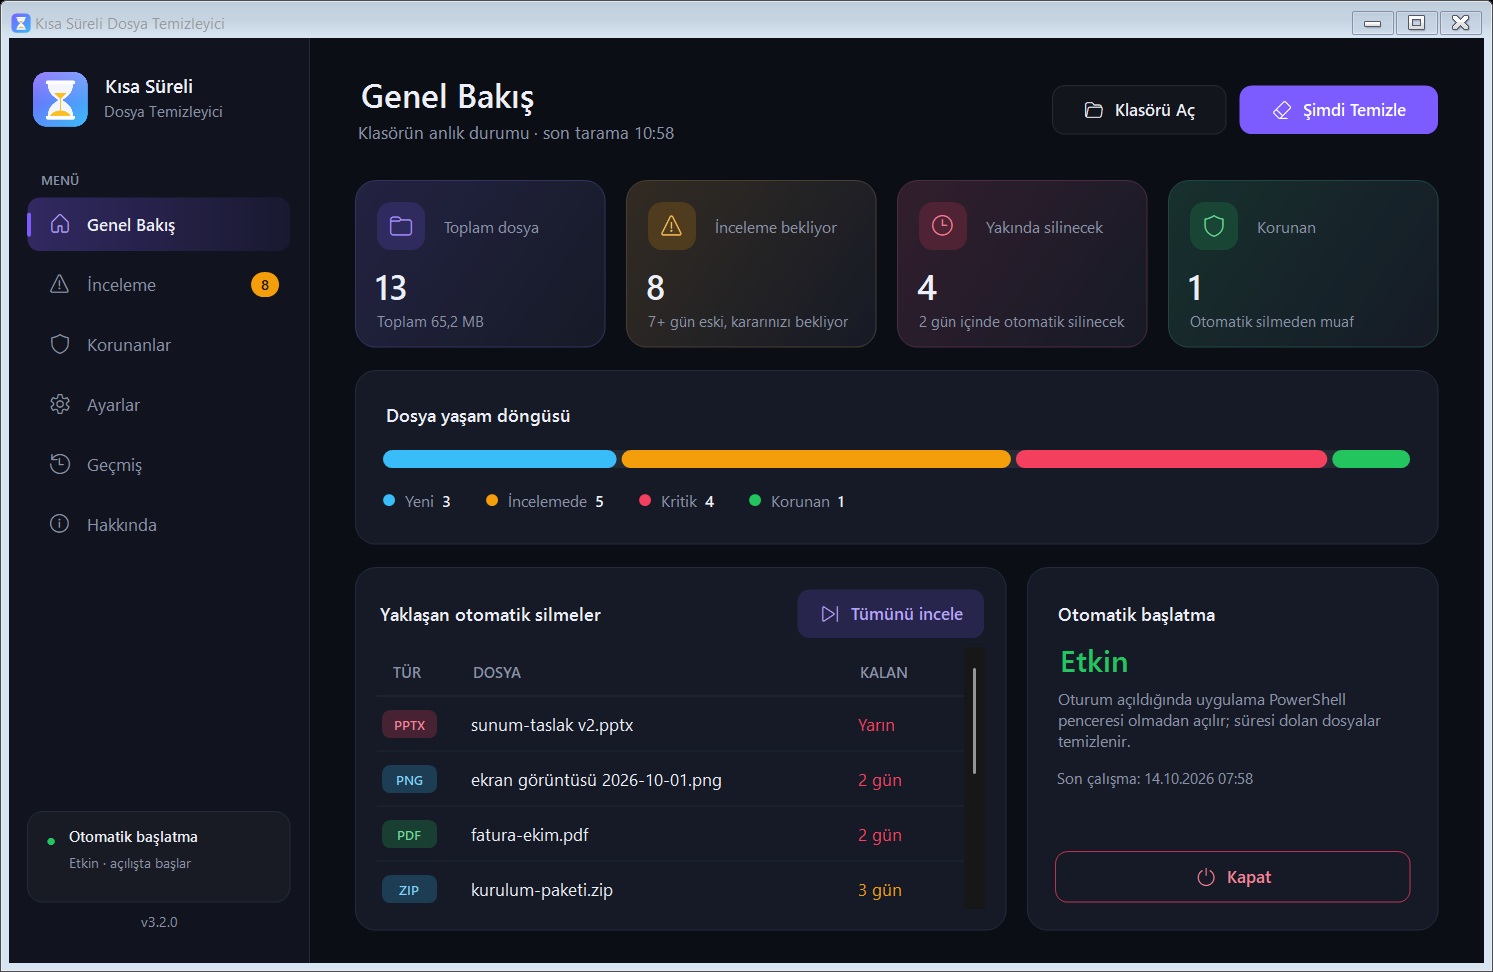
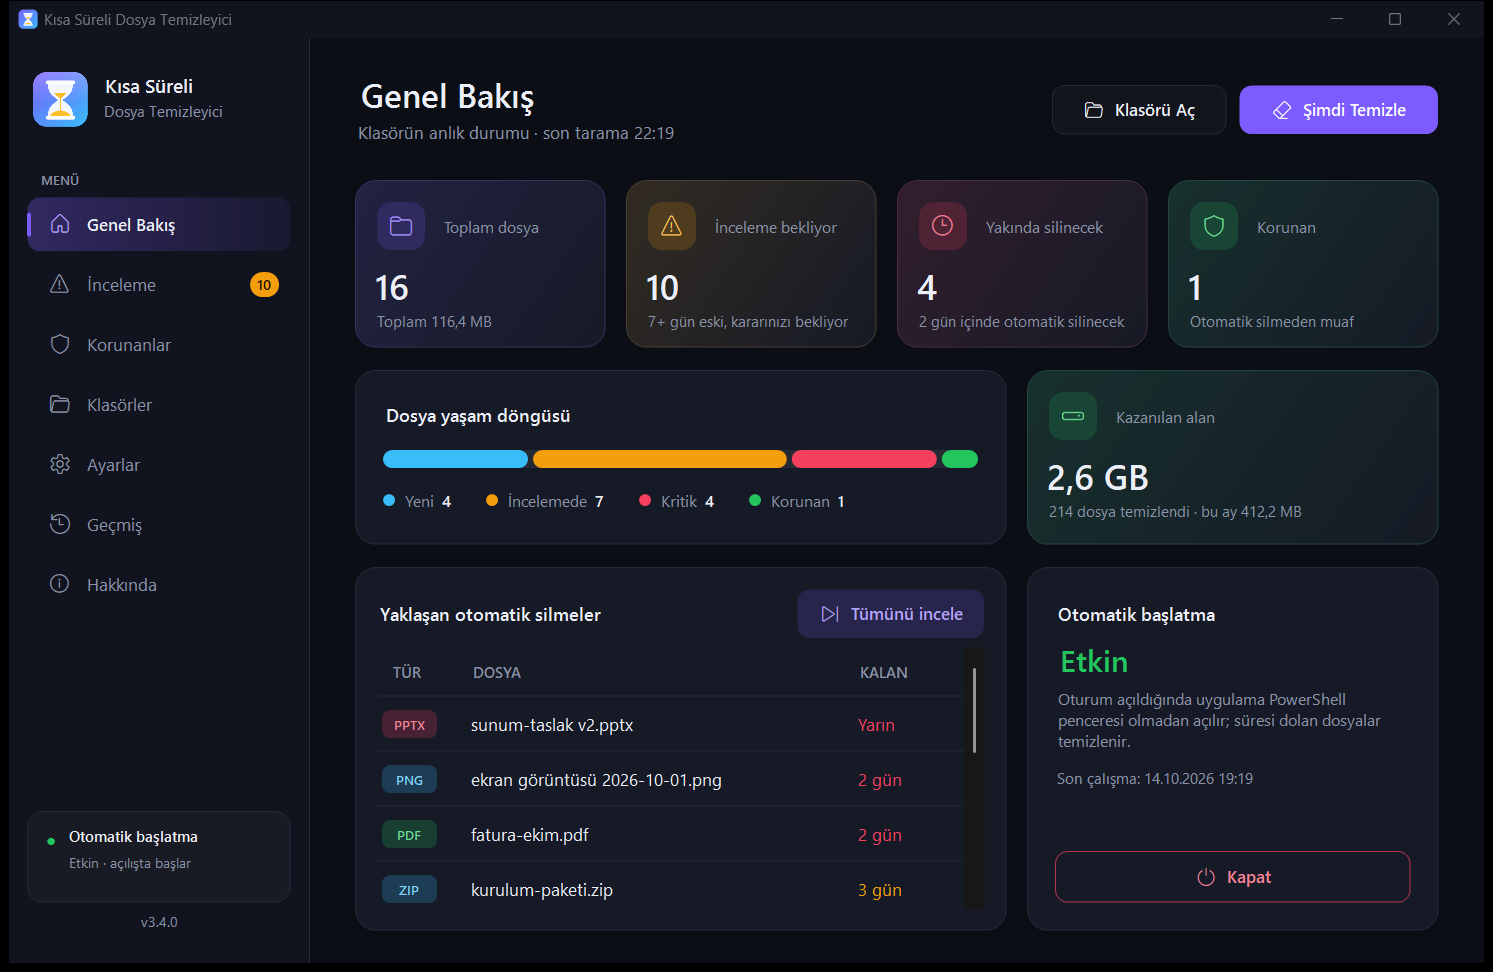
v3.4.0: Genel Bakış'ta kazanılan alan istatistiği
- Silinen dosyaların toplam boyutu ve sayısı .system/stats.json'a kaydedilir
  (Sil düğmesi ve otomatik temizlik; silinemeyenler sayılmaz, aylık döküm).
- Genel Bakış'ta "Kazanılan alan" kartı: toplam, dosya sayısı, bu ayki kazanç.
- Silme özeti toplam kazanılan alanı da gösterir.
- stats.json güncellemede ve masaüstüne kurulumda korunur, git'e girmez.

diff --git a/.system/App.cs b/.system/App.cs
@@ -23,8 +23,8 @@ using System.Windows.Forms;
 [assembly: AssemblyProduct("Kısa Süreli Dosya Temizleyici")]
 [assembly: AssemblyCompany("Umut Zaif")]
 [assembly: AssemblyCopyright("MIT License - github.com/umutzaif/short-term-file-cleaner")]
-[assembly: AssemblyVersion("3.3.0.0")]
-[assembly: AssemblyFileVersion("3.3.0.0")]
+[assembly: AssemblyVersion("3.4.0.0")]
+[assembly: AssemblyFileVersion("3.4.0.0")]
 
 static class Program
 {

diff --git a/.github/README.md b/.github/README.md
@@ -7,7 +7,7 @@
 **Masaüstündeki geçici dosyalarınızı unutun. Süresi yaklaşanları size sorar, süresi dolanları kendisi temizler.**
 
 [![Platform](https://img.shields.io/badge/platform-Windows%2010%20%7C%2011-blue.svg)](https://www.microsoft.com/windows)
-[![Version](https://img.shields.io/badge/sürüm-3.3.0-7c5cff.svg)](../.system/CHANGELOG.md)
+[![Version](https://img.shields.io/badge/sürüm-3.4.0-7c5cff.svg)](../.system/CHANGELOG.md)
 [![License](https://img.shields.io/badge/lisans-MIT-green.svg)](../.system/LICENSE)
 
 </div>
@@ -104,6 +104,7 @@ Ayarlarınız, korunan dosya listeniz, işlem geçmişiniz ve klasördeki dosyal
 - **Dosya koruma:** Önemli dosyalarınızı kalıcı olarak koruyun
 - **Geri Dönüşüm Kutusu desteği:** İsterseniz dosyalar kalıcı silinmek yerine Geri Dönüşüm Kutusu'na gider
 - **Korunan sistem dosyaları:** Uygulamanın kendi dosyaları gizli `.system` klasöründedir. Listelerde görünmez, silinemez ve korumaları değiştirilemez
+- **Kazanılan alan istatistiği:** Silinen dosyaların toplam boyutu Genel Bakış'ta birikir ("2,6 GB · 214 dosya temizlendi · bu ay 412 MB")
 - **Ek klasörler:** İndirilenler gibi başka klasörleri de takip ettirin
 - **Tema seçimi:** Gece, Gündüz veya Windows ayarını izleyen Sistem teması
 - **Uygulama içi güncelleme:** Yeni sürüm tek tıkla kurulur, ayarlar ve dosyalar korunur

diff --git a/.system/CHANGELOG.md b/.system/CHANGELOG.md
@@ -2,6 +2,16 @@
 
 All notable changes to this project will be documented in this file.
 
+## [3.4.0] - 2026-10-14
+
+### Added
+- **Kazanılan alan istatistiği**: Genel Bakış'ta yeni "Kazanılan alan" kartı; silinen dosyaların toplam boyutu,
+  temizlenen dosya sayısı ve bu ayki kazanç ("2,6 GB · 214 dosya temizlendi · bu ay 412 MB").
+  - Hem Sil düğmesiyle hem otomatik temizlikle gerçekten silinen dosyalar sayılır; silinemeyenler sayılmaz.
+  - Veriler `.system\stats.json`'da tutulur (aylık döküm son 24 ay); güncellemelerde ve masaüstüne kurulumda korunur.
+  - Sayaç bu sürümle başlar: önceki silmelerin boyutları kayıtlı olmadığından geriye dönük hesaplanmaz.
+- Silme özeti penceresi bu silmeyle birlikte toplam kazanılan alanı da gösterir.
+
 ## [3.3.0] - 2026-10-14
 
 ### Added
